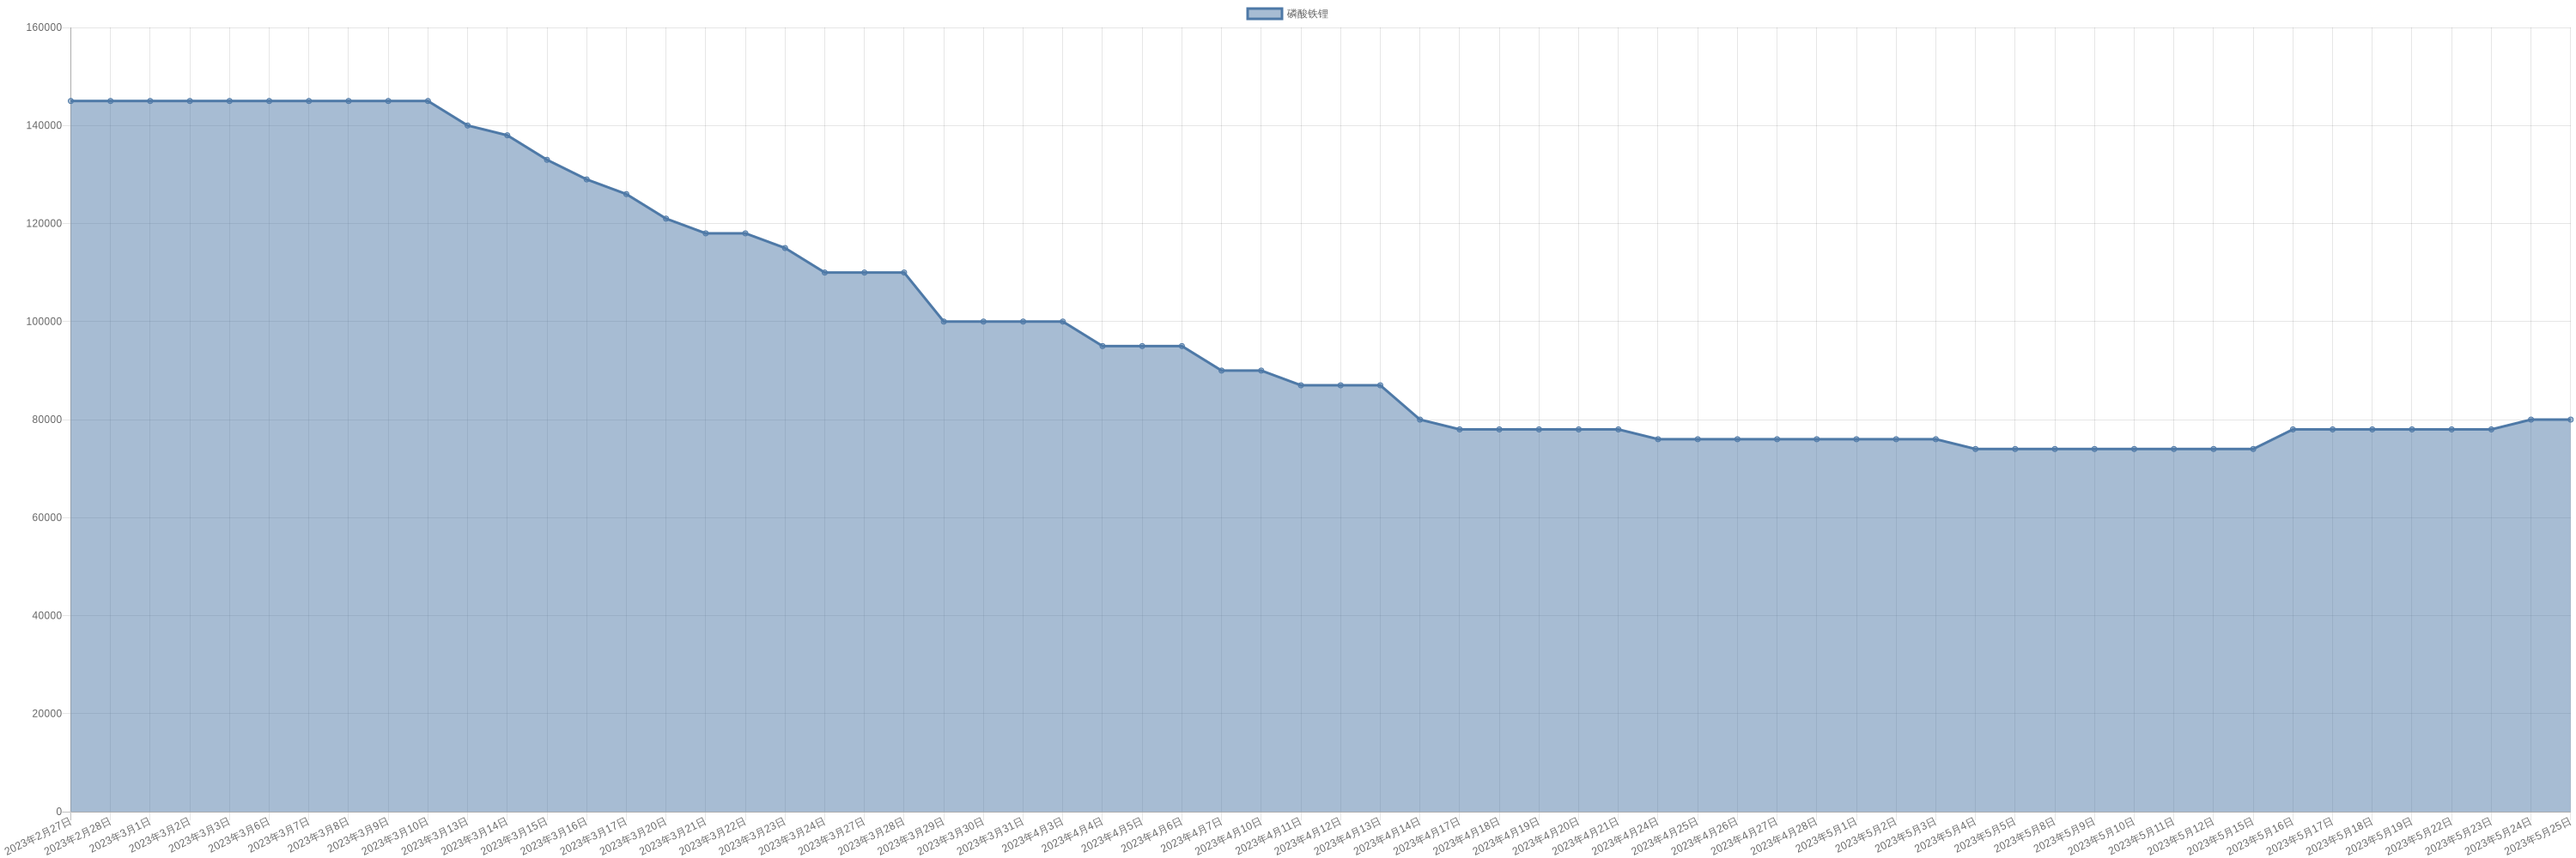
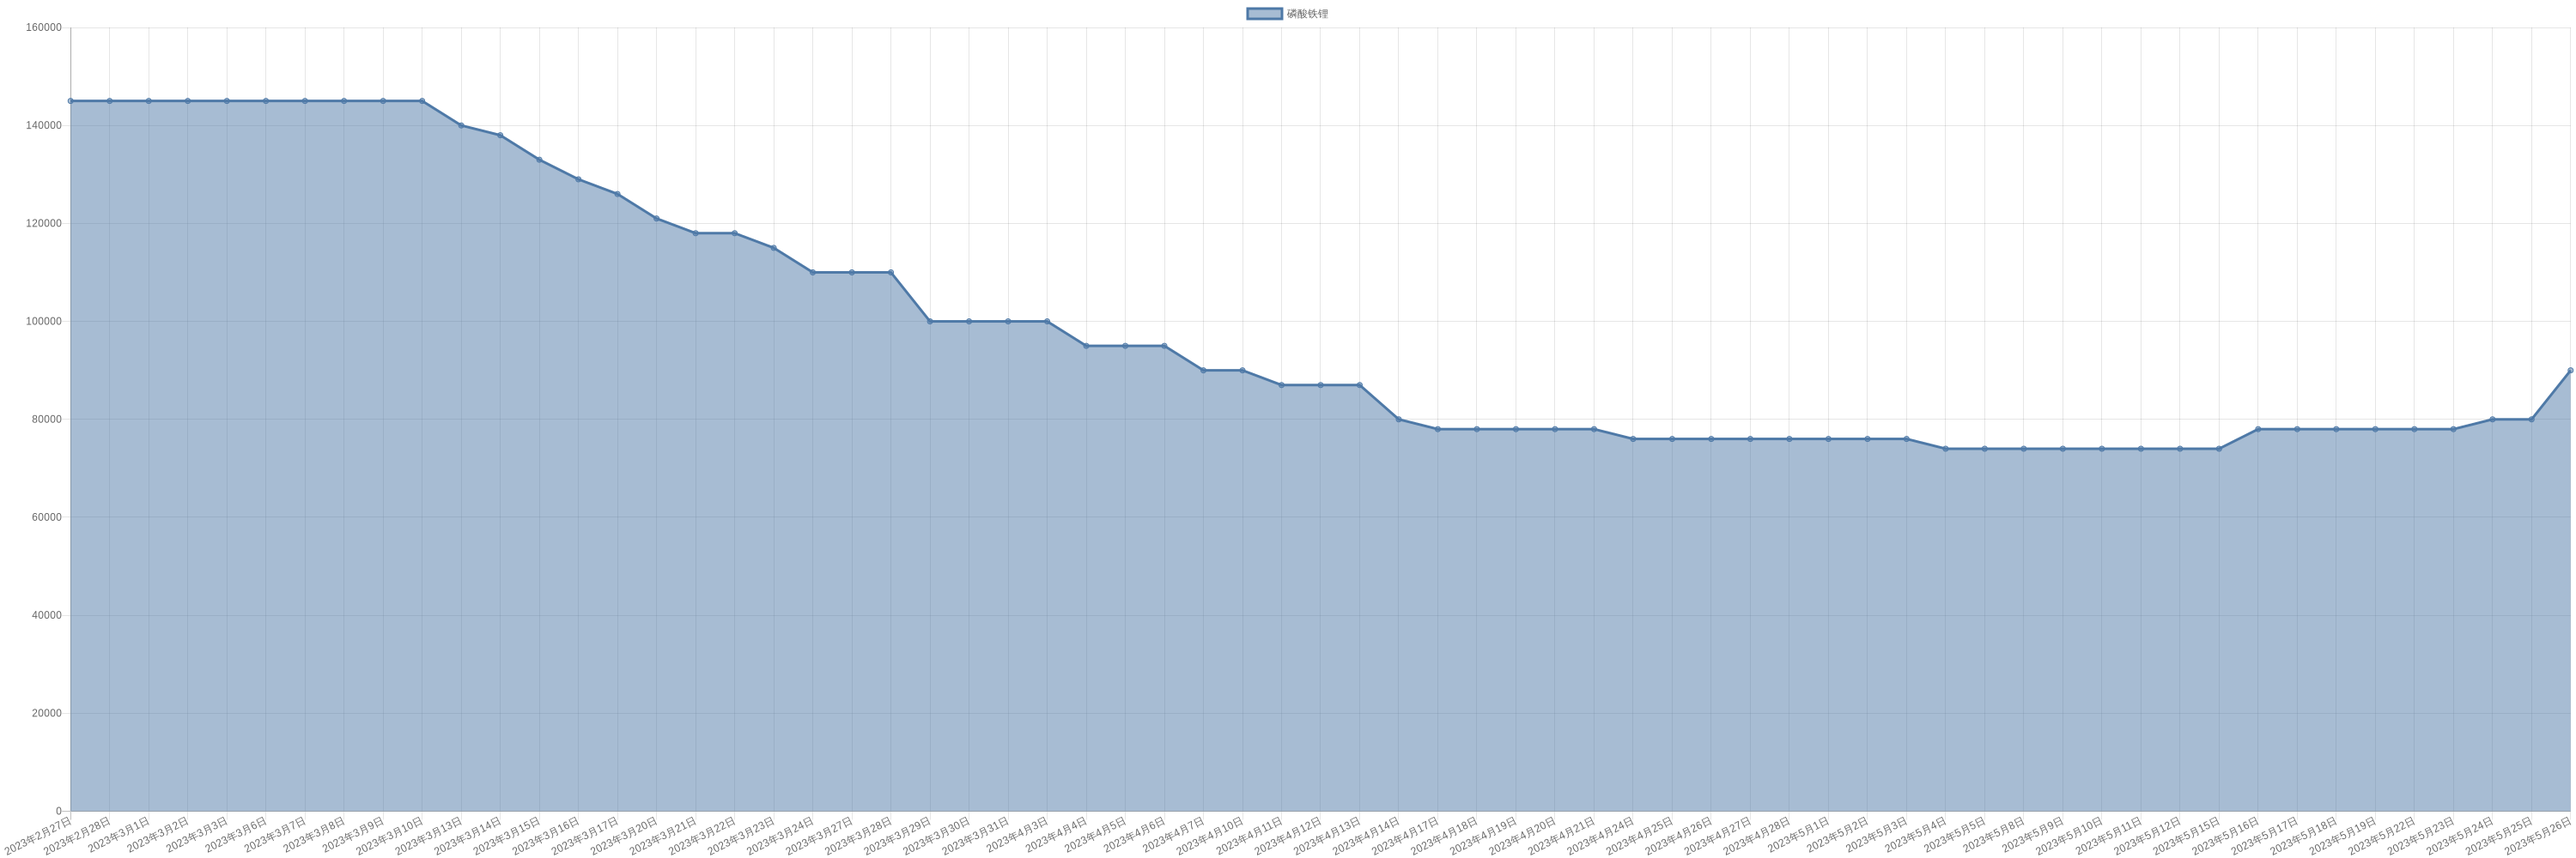
chore: sync commodity monitor

diff --git a/markdown/commodity/crudeOil.md b/markdown/commodity/crudeOil.md
@@ -2,6 +2,8 @@
 
 | 时间 | 价格 | 消息正文 |
 |:--:|:--:|:--:|
+|2023年5月26日Brent|76.18|5月26日Brent原油为76.18|
+|2023年5月26日WTI|71.83|5月26日WTI原油为71.83|
 |2023年5月25日WTI|74.34|5月25日WTI原油为74.34|
 |2023年5月25日Brent|78.36|5月25日Brent原油为78.36|
 |2023年5月24日WTI|72.91|5月24日WTI原油为72.91|

diff --git a/markdown/commodity/praseodymiumNeodymiumOxide.md b/markdown/commodity/praseodymiumNeodymiumOxide.md
@@ -8,6 +8,7 @@
 
 | 时间 | 价格 | 消息正文 |
 |:--:|:--:|:--:|
+|2023年5月26日|487500|5月26日镨钕氧化物为487500.00|
 |2023年5月25日|482500|5月25日镨钕氧化物为482500.00|
 |2023年5月24日|482500|5月24日镨钕氧化物为482500.00|
 |2023年5月23日|482500|5月23日镨钕氧化物为482500.00|

diff --git a/markdown/commodity/dyFeAlloy.md b/markdown/commodity/dyFeAlloy.md
@@ -8,6 +8,7 @@
 
 | 时间 | 价格 | 消息正文 |
 |:--:|:--:|:--:|
+|2023年5月26日|2080000|5月26日镝铁合金为2080000.00|
 |2023年5月25日|2055000|5月25日镝铁合金为2055000.00|
 |2023年5月24日|2055000|5月24日镝铁合金为2055000.00|
 |2023年5月23日|2055000|5月23日镝铁合金为2055000.00|

diff --git a/markdown/commodity/lithiumHydroxide.md b/markdown/commodity/lithiumHydroxide.md
@@ -8,6 +8,7 @@
 
 | 时间 | 价格 | 消息正文 |
 |:--:|:--:|:--:|
+|2023年5月26日|305000|5月26日氢氧化锂为305000.00|
 |2023年5月25日|305000|5月25日氢氧化锂为305000.00|
 |2023年5月24日|305000|5月24日氢氧化锂为305000.00|
 |2023年5月23日|305000|5月23日氢氧化锂为305000.00|

diff --git a/markdown/commodity/praseodymiumNeodymiumAlloy.md b/markdown/commodity/praseodymiumNeodymiumAlloy.md
@@ -8,6 +8,7 @@
 
 | 时间 | 价格 | 消息正文 |
 |:--:|:--:|:--:|
+|2023年5月26日|582500|5月26日镨钕合金为582500.00|
 |2023年5月25日|577500|5月25日镨钕合金为577500.00|
 |2023年5月24日|577500|5月24日镨钕合金为577500.00|
 |2023年5月23日|577500|5月23日镨钕合金为577500.00|

diff --git a/markdown/commodity/dysprosiumMetal.md b/markdown/commodity/dysprosiumMetal.md
@@ -8,6 +8,7 @@
 
 | 时间 | 价格 | 消息正文 |
 |:--:|:--:|:--:|
+|2023年5月26日|2680000|5月26日金属镝为2680000.00|
 |2023年5月25日|2680000|5月25日金属镝为2680000.00|
 |2023年5月24日|2680000|5月24日金属镝为2680000.00|
 |2023年5月23日|2680000|5月23日金属镝为2680000.00|

diff --git a/markdown/commodity/dysprosiumOxide.md b/markdown/commodity/dysprosiumOxide.md
@@ -8,6 +8,7 @@
 
 | 时间 | 价格 | 消息正文 |
 |:--:|:--:|:--:|
+|2023年5月26日|2130000|5月26日氧化镝为2130000.00|
 |2023年5月25日|2130000|5月25日氧化镝为2130000.00|
 |2023年5月24日|2130000|5月24日氧化镝为2130000.00|
 |2023年5月23日|2130000|5月23日氧化镝为2130000.00|

diff --git a/markdown/commodity/liquefiedNaturalGas.md b/markdown/commodity/liquefiedNaturalGas.md
@@ -8,6 +8,7 @@
 
 | 时间 | 价格 | 消息正文 |
 |:--:|:--:|:--:|
+|2023年5月26日|3728|5月26日液化天然气为3728.00|
 |2023年5月25日|3688|5月25日液化天然气为3688.00|
 |2023年5月24日|3652|5月24日液化天然气为3652.00|
 |2023年5月23日|3662|5月23日液化天然气为3662.00|

diff --git a/markdown/commodity/lithiumIronPhosphate.md b/markdown/commodity/lithiumIronPhosphate.md
@@ -8,6 +8,7 @@
 
 | 时间 | 价格 | 消息正文 |
 |:--:|:--:|:--:|
+|2023年5月26日|90000|5月26日磷酸铁锂为90000.00|
 |2023年5月25日|80000|5月25日磷酸铁锂为80000.00|
 |2023年5月24日|80000|5月24日磷酸铁锂为80000.00|
 |2023年5月23日|78000|5月23日磷酸铁锂为78000.00|

diff --git a/markdown/commodity/neodymium.md b/markdown/commodity/neodymium.md
@@ -8,6 +8,7 @@
 
 | 时间 | 价格 | 消息正文 |
 |:--:|:--:|:--:|
+|2023年5月26日|620000|5月26日金属钕为620000.00|
 |2023年5月25日|620000|5月25日金属钕为620000.00|
 |2023年5月24日|620000|5月24日金属钕为620000.00|
 |2023年5月23日|620000|5月23日金属钕为620000.00|

diff --git a/markdown/commodity/neodymiumOxide.md b/markdown/commodity/neodymiumOxide.md
@@ -8,6 +8,7 @@
 
 | 时间 | 价格 | 消息正文 |
 |:--:|:--:|:--:|
+|2023年5月26日|487500|5月26日氧化钕为487500.00|
 |2023年5月25日|482500|5月25日氧化钕为482500.00|
 |2023年5月24日|482500|5月24日氧化钕为482500.00|
 |2023年5月23日|482500|5月23日氧化钕为482500.00|

diff --git a/markdown/commodity/praseodymium.md b/markdown/commodity/praseodymium.md
@@ -8,6 +8,7 @@
 
 | 时间 | 价格 | 消息正文 |
 |:--:|:--:|:--:|
+|2023年5月26日|625000|5月26日金属镨为625000.00|
 |2023年5月25日|625000|5月25日金属镨为625000.00|
 |2023年5月24日|625000|5月24日金属镨为625000.00|
 |2023年5月23日|625000|5月23日金属镨为625000.00|
